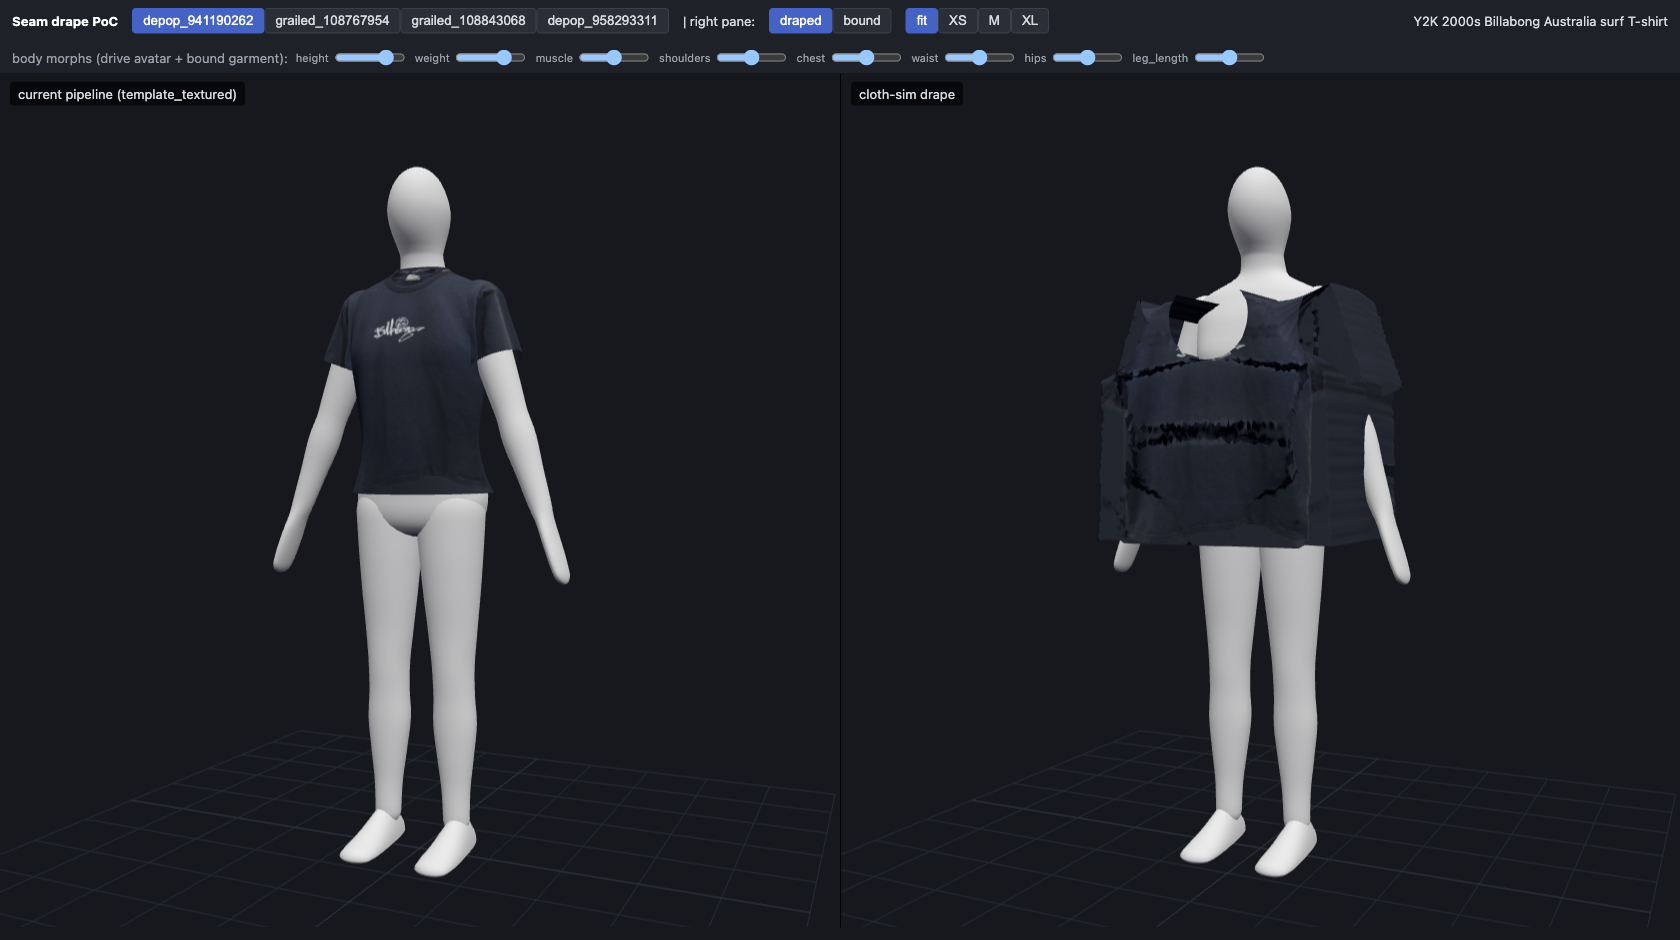
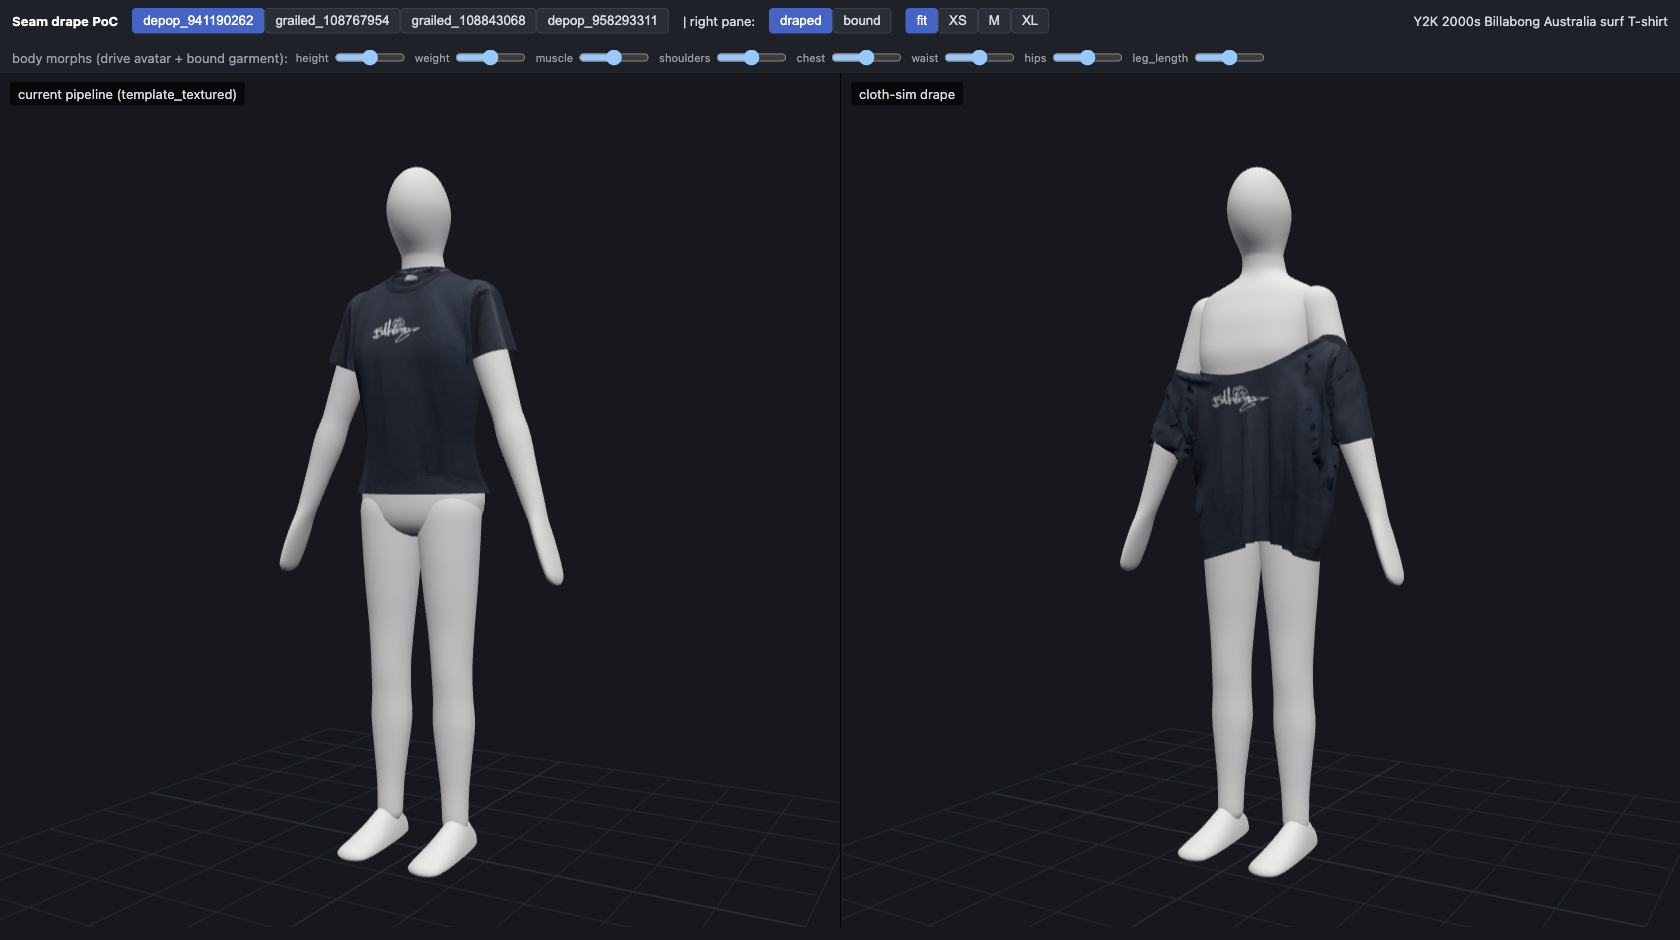
docs(drape): gpu results

diff --git a/gen3d/drape/RESULTS.md b/gen3d/drape/RESULTS.md
@@ -23,10 +23,10 @@ NON-COMMERCIAL ONLY** — fine for this PoC, a hard blocker for shipping unless 
 | Mannequin -> GarmentCode body (obj + 26-key yaml + segmentation) | this mac | done, masc/fem/183cm + size bodies |
 | Pattern generation (pygarment) | this mac | done, 4 items + XS/M/XL hoodie |
 | Box mesh (pre-sim garment mesh, panel UVs + labels) | this mac | done, 7 meshes |
-| Warp XPBD drape | **GPU box (pending human run)** | scripts ready; local CPU sim segfaults (below) |
-| Panel texturing + GLB export | this mac | done, on box meshes; same code reruns on sim objs |
-| Morph binding (instant approximation) | this mac | done, on box meshes; redrape comparison pending GPU |
-| Viewer + screenshots | this mac | done |
+| Warp XPBD drape | RunPod RTX 3090 | done: 4 items, XS/M/XL, tee→hoodie layer, 7 control sims |
+| Panel texturing + GLB export | RunPod + this mac | done, on the GPU sim objs |
+| Morph binding (instant approximation) | RunPod | done on sim objs; redrape comparison done (below) |
+| Viewer + screenshots | this mac | re-shot on the draped GLBs (16 + 3 control shots) |
 
 Local CPU sim attempt: built the warp fork CPU-only on macOS arm64 (llvm.org clang+llvm 15.0.7 in
 place of NVIDIA's packman bundle). `wp.init()` + kernels work, but the first `warp.sim.collide`
@@ -41,50 +41,96 @@ kernel launch segfaults — timeboxed and dropped. The sim is GPU-box work, as p
 | grailed:108843068 — "REHACER baggy rusty mudwash" jeans | jeans | W32 | oversized | ok | 6 |
 | depop:958293311 — boxy tee | tee | L | oversized | ok | 8 |
 
-## Numbers (this mac, M-series CPU; sim numbers TBD on GPU)
+## Numbers
 
 - Claude params: ~4 s/item, ~5.2k in / ~200 out tokens, **~$0.017–0.02 per item** (prompt-cache aware).
 - Pattern generation: 0.15–2.1 s/item.
-- Box mesh generation (res 1.0): 1.6–3.2 s/item on CPU.
-- Upstream sim reference: ~30 s/garment on an RTX 3090 (GarmentCodeData paper); VRAM unpublished —
-  `drape.drape` samples nvidia-smi peak per run into `runs/out/timings.json`.
+- Box mesh generation (res 1.0): 1.6–3.2 s/item on the mac CPU, 4–9 s on the pod.
 - Claude cost drivers: image + schema slice; retry rate 0/4.
 
-### TBD after `drape/scripts/run_poc.sh` on the GPU box
-- per-item sim seconds + peak VRAM + GPU model (auto-recorded to runs/out/timings.json)
-- size experiment XS/M/XL drape deltas on the 183 cm wearer
-- layered tee->hoodie drape
-- binding-vs-redrape error at height 0.8 (bind.py --compare)
+### GPU run (RunPod RTX 3090, 2026-10-20)
+
+Box: Secure Cloud RTX 3090 24 GB, EU-CZ-1, $0.50/h, CUDA 13.2 host driver, image
+`runpod/pytorch:2.4.0-py3.11-cuda12.4.1-devel-ubuntu22.04` (nvcc 12.4). setup_gpu.sh ~10 min (warp
+CUDA compile 107 s + link 11 s, warp-clang from packman LLVM 15.0.7); upstream smoke sim 117 s, ~75 s
+of it first-run kernel JIT (cached after). run_poc.sh 526 s. Pod up 54 min incl. controls (~$0.45).
+Numbers from runs/out/timings.json and the control dirs runs/out_*.
+
+Main drapes on wearer_masc (175 cm), res 1.0, upstream default sim props:
+
+| item | preset | sim s | frames | body / self isect | VRAM MB | upstream fails | reads as |
+|---|---|---|---|---|---|---|---|
+| sweats | default | 36.0 | 2399 (cap) | 0 / 8063 | 644 | static_eq, self | slid off the body (y −22…14 cm) |
+| tee | soft | 35.2 | 2399 | 151 / 493 | 564 | static_eq, body, self | slid off the left shoulder |
+| hoodie | soft_flexy | 53.9 | 2399 | 378 / 1230 | 666 | static_eq, body, self | the garment: hood, folds, cuffs |
+| jeans | stiff | 37.6 | 2399 | 0 / 9079 | 660 | static_eq, self | slid off the body (y −28…16 cm) |
+
+- 35–56 s/garment (paper: ~30 s on a 3090); peak VRAM 0.56–0.68 GB (nvidia-smi, incl. context), so
+  24 GB is idle capacity and several sims could share one card.
+- No main sim met upstream's static-equilibrium test inside the 2400-frame cap and all trip its
+  self-intersection flag. The flags over-report: the hoodie trips all three and reads right.
+- The GPU sim is not deterministic: the same tee spec, three runs: body isect 151 / 97 / 92, one
+  settled at frame 2063.
+- Bottoms: upstream holds the waist (`lower_interface`) attachment for `attachment_frames: 400`, then
+  releases it, and both pants slide off our mannequin. Not only sizing (W32 size body waist 81.3 /
+  hips 106.8 vs wearer 75.2 / 92.9 cm): the jeans also fall on wearer_heavy (waist 82.2 cm).
+  Control with every attachment held for all frames (runs/out_ctrl_hold, shots `*_hold_tq.png`):
+  sweats 26.2 s, y 11…105 cm; jeans 26.4 s, y 5…105 cm; both 0 body / 0 self isect, only the
+  static_eq flag. They read as baggy cuffed track pants and wide-leg jeans, at least as well as the
+  templates. The tee does not recover (36.8 s, 154 / 587, still off the shoulder): different cause, open.
+- Layer test (tee draped, merged into the collision body, hoodie draped over it): the base tee settled
+  (33.1 s, frame 2063); the hoodie took 88.1 s, 2731 body / 12957 self isect, and ended at y 0.81–1.26 m,
+  i.e. it slid down over the tee with the hood off the head. Layering via a merged body does not work as is.
+- Fixed in our scripts during the run: run_poc.sh lacked ~/.local/bin on PATH (uv not found in a
+  non-login shell) and passed an unknown `--bodies` to drape.bind; drape.py's layer test read
+  `<name>_layered_specification.json` (FileNotFoundError).
 
 ## Size experiment (D6)
 
-Patterns + box meshes for the hoodie at XS / M / XL on the same 183 cm masc wearer exist locally
-(`runs/out/grailed_108767954/sim_size_*`). Size-body girths: M bust 96 / waist 82 / hips 101 vs
-XL 112 / 98 / 121 (cm). Pattern-level: XS lays out clean; M/L/XL trigger GarmentCode's 2D
-self-intersection warning (hood panels outgrow the flat layout) — flagged, sim-level effect TBD.
-Expected on GPU: XS rides up and pulls; XL bunches. RECORD ACTUAL RESULT HERE AFTER GPU RUN.
+Hoodie patterns at XS / M / XL from size bodies of the 175 cm masc wearer, all draped on
+wearer_masc (175 cm). Size-body girths: XS bust 84 / waist 70 / hips 86, M 96 / 82 / 101, XL
+112 / 98 / 121 (cm). The cached XS body had been derived from the 183 cm wearer while M/XL came from
+the 175 cm one, so it was rebuilt before the run; the sizes now differ only in girth.
+
+| size | sim s | body / self isect | VRAM MB | hem y |
+|---|---|---|---|---|
+| XS | 49.0 | 616 / 942 | 628 | 0.862 m |
+| M | 54.1 | 377 / 773 | 650 | 0.837 m |
+| L (listed size, main drape) | 53.9 | 378 / 1230 | 666 | 0.830 m |
+| XL | 56.4 | 251 / 1255 | 684 | 0.813 m |
+
+Reads as intended (shots `grailed_108767954_size_*.png`, untextured sim meshes): XS is fitted, with
+tight sleeves and the hem at the hip; XL is oversized, with fuller, longer sleeves, more folds and a
+lower hem. Body contact falls monotonically with size and self-contact (bunching) peaks at XL. The 2D
+hood self-intersection warning on M/L/XL did not break any sim.
 
 ## Instant approximation (D8 binding)
 
 Nearest-triangle barycentric + the offset stored as a 3-vector in the triangle's rotating local
-frame (the plain normal-only scalar leaves 0.8-1.2 cm mean error on these meshes; the frame
-version reconstructs exactly). Garment morph targets = binding applied to each of the mannequin's
+frame (the plain normal-only scalar leaves 0.8-1.2 cm mean error on the box meshes, 0.08-0.33 cm
+mean / up to 3.0 cm max on the sim meshes; the frame version reconstructs exactly). Garment morph targets = binding applied to each of the mannequin's
 8 morph deltas, exported with the exact avatar target names so web useBodyMorphs drives them
 unchanged. binding.npz caches the ~12 s proximity pass; re-export is instant.
 
+On the GPU sim objs (default drapes, so both bottoms are bound where they fell, by the feet):
+
 | item | verts | recon @drape sliders | morph-blend identity | push h=0.8 mean/max | penetr. push / bind |
 |---|---|---|---|---|---|
-| sweats | 14710 | 0.000 cm | 0.29 / 1.26 cm | 3.29 / 5.98 cm | 64 / 64 (0.44%) |
-| tee    |  9865 | 0.000 cm | 0.40 / 1.55 cm | 5.98 / 7.54 cm | 160 / 160 (1.62%) |
-| hoodie | 16331 | 0.000 cm | 0.27 / 1.53 cm | 6.36 / 9.45 cm | 233 / 233 (1.43%) |
-| jeans  | 15524 | 0.000 cm | 0.26 / 1.09 cm | 2.84 / 5.86 cm | 80 / 80 (0.52%) |
+| sweats | 14719 | 0.000 cm | 0.004 / 0.036 cm | 0.45 / 0.83 cm | 0 / 0 (garment on the floor) |
+| tee    |  9848 | 0.000 cm | 0.31 / 0.76 cm | 5.64 / 7.13 cm | 104 / 104 (1.06%) |
+| hoodie | 16309 | 0.000 cm | 0.20 / 0.69 cm | 6.61 / 9.45 cm | 110 / 110 (0.67%) |
+| jeans  | 15515 | 0.000 cm | 0.004 / 0.081 cm | 0.43 / 0.94 cm | 0 / 0 (garment on the floor) |
 
-The honest approximation error is the morph-blend identity residual (0.26-0.40 cm mean, <=1.55 cm
-max): the body is slightly non-linear in its sliders, the binding itself is exact. Penetration
-counts are IDENTICAL at bind and after pushing height to 0.8 on every item - binding introduces
-zero new body penetration; the 0.4-1.6% that exist come from the un-draped boxmesh fixtures.
-All 4 bound GLBs verify: 8 targets, targetNames == slider names, textures injected, load in
-trimesh. bind.py --compare is wired for the GPU re-drape comparison (self-compare = 0.000 cm).
+The binding itself stays exact and adds zero penetrations (counts identical at bind and after the
+push); the morph-blend identity residual is 0.20–0.31 cm mean on the tops. All 4 bound GLBs verify:
+8 targets, targetNames == slider names, UVs + textures, load in trimesh.
+
+**Binding vs redrape** (hoodie, height slider 0.8 = 184.45 cm): the re-drape on that body took 29.4 s
+and settled at frame 693. Binding-pushed vs re-drape: **mean 6.12 cm, max 13.16 cm**. Sim noise floor
+(re-drape on the same body vs the original drape): 1.35 / 5.16 cm. The binding error is ~4.5x the
+noise: binding stretches the garment with the body, as if it were re-cut for each wearer, while the
+same physical garment rides up on a taller one. Fine for small girth tweaks; height buckets need
+their own drape.
 
 ## Texturing (D7)
 
@@ -110,6 +156,10 @@ GLBs verify in trimesh: UVs + basecolor + normal + metallicRoughness, doubleSide
 4. The warp fork clone silently loses its `warp/` tree without git-lfs installed FIRST.
 5. `run_sim` calls pyrender unconditionally — drape.py no-ops `render_images` (we screenshot via
    the viewer instead); setup_gpu.sh still installs GL libs for safety.
+6. The warp fork tracks `tools/packman/packman` as mode 100644 and `build_llvm.py` execs it, so the
+   Linux build dies with "Permission denied" after the CUDA compile — setup_gpu.sh chmods it first.
+7. Upstream's `test_garment_sim.py` crashes after the sim in its headless pyrender pass (PyOpenGL
+   ctypes ArgumentError in glGenTextures); the sim itself succeeds and setup_gpu.sh tolerates it.
 
 ## Viewer
 
@@ -120,22 +170,26 @@ morph sliders drive avatar + bound garment by name). Regenerate the manifest aft
 `cd gen3d/drape && uv run --no-sync python viewer/build_manifest.py`.
 
 Screenshots (committed): runs/out/shots/ — <safe>_{front,tq,back}.png per item (full-page = left
-template vs right drape), plus grailed_108767954_size_{XS,M,XL}.png and depop_958293311_bound_h08.png.
-Browser console clean (only a favicon 404). NOTE: right-pane geometry is currently the PRE-SIM box
-mesh (boxy, hood spiking up) — re-run the same shots after the GPU drape to judge visual quality;
-the left-vs-right texture/colour comparison is already meaningful.
+template vs right drape), plus grailed_108767954_size_{XS,M,XL}.png and depop_958293311_bound_h08.png,
+all re-shot on the GPU-draped GLBs (camera azimuth 0 / 30 / 180°). `<safe>_hold_tq.png` (sweats,
+jeans, tee) are the held-attachment controls, shot by pointing the page's in-memory manifest `draped`
+URL at runs/out_ctrl_hold. The size GLBs are untextured trimesh exports of the sim_size objs.
+Browser console clean (only a favicon 404).
 
 ## Cost projection — 200 items × 5 body buckets
 
 - Claude params: 200 × $0.02 = **$4** (one-time per item, body-independent).
 - Patterns: CPU, free-ish (≤2 s each).
-- Drapes: 200 items × 5 bodies = 1000 sims × ~30 s (3090-class) ≈ 8.3 GPU-h ≈ **$3–7** on RunPod
-  (RTX 3090/4090 at $0.3–0.8/h), plus per-size variants if offered (+3× for XS/M/XL ladder).
-- New body AFTER baking: $0 — the binding reshapes instantly in the browser; re-drape only for
-  quality-critical fits.
+- Drapes: 200 items × 5 bodies = 1000 sims × ~45 s measured (RTX 3090) ≈ 12.5 GPU-h ≈ **~$6** at
+  the $0.50/h Secure 3090 rate paid here, plus per-size variants if offered (+3× for XS/M/XL ladder).
+  Each sim peaks under 0.7 GB VRAM, so packing several per GPU should cut that (not measured).
+- New body AFTER baking: $0 — the binding reshapes instantly in the browser, but it is ~6 cm off a
+  real re-drape for a +5% height change (above): fine for girth, not a substitute for height buckets.
 - Storage: ~2–5 MB/GLB → 1000 × ~3 MB ≈ 3 GB.
 
-## What the human must run on the GPU box
+## Re-running the GPU stage
+
+Done once on 2026-10-20 (above); gen3d/drape/GPU_RUN.md has the exact pod + rsync commands.
 
 1. rsync (or clone + checkout anjelo/drape-poc) the repo to a RunPod Ubuntu 22.04 + CUDA 12 box,
    plus `rsync -a gen3d/drape/runs/inputs/ box:.../gen3d/drape/runs/inputs/` and runs/bodies/.
@@ -143,31 +197,47 @@ the left-vs-right texture/colour comparison is already meaningful.
    builds the warp fork with CUDA_PATH, runs upstream's own smoke sim once, prints seconds).
 3. `bash drape/scripts/run_poc.sh` — drapes all 4 items + XS/M/XL size experiment + tee→hoodie
    layer test, re-runs texture/export/bind on the real sim objs, writes runs/out/timings.json.
-4. rsync runs/out back; `uv run --no-sync python viewer/build_manifest.py`; re-take shots;
-   fill the TBD sections above + this verdict's quality judgement.
-5. Binding-vs-redrape error: `uv run --no-sync python -m drape.bind --only grailed_108767954
-   --push height=0.8 --compare <path to the re-draped-at-0.8 _sim.obj>`.
+4. rsync runs/out back; export the hoodie size GLBs (`<safe>_size_{XS,M,XL}.glb`: plain trimesh
+   exports of sim_size_*/*_sim.obj, cm -> m); `uv run --no-sync python viewer/build_manifest.py`;
+   re-take shots.
+5. Binding-vs-redrape: `uv run --no-sync python -m drape.body --base masc --name wearer_masc_h08
+   --sliders height=0.8`, drape the hoodie on it (`-m drape.drape --only grailed_108767954 --wearer
+   wearer_masc_h08 --size L --out runs/out_redrape08`), then `-m drape.bind --only
+   grailed_108767954 --push height=0.8 --compare <that _sim.obj>`.
 
 ## Verdict
 
-**PROCEED — pending the one thing a Mac cannot answer: visual drape quality on the GPU run.**
-Every other question came back positive and cheap:
-- Mechanics: listing photo → valid GarmentCode params (4/4, $0.02, 4 s) → pattern on a size body
-  (≤2 s) → our mannequin is a drop-in GarmentCode body (upstream BodyParameters loads it, waist
-  level exact) → panel-true texturing → GLBs the existing web morph system drives unchanged.
-- The "instant approximation" works: exact reconstruction, 0.26–0.40 cm morph residual, zero
-  added penetrations — so 5 body buckets do NOT need 5 sims per item.
-- Cost at 200 items × 5 bodies ≈ **$4 Claude + $3–7 GPU + ~3 GB storage** — negligible.
-Abandon only if the GPU run shows draped results reading worse than the current templates, or a
-high sim fail-rate on real thrift params.
+**PROCEED, with two fixes before it is product-grade.** The GPU run answered the open question:
+when the garment stays on the body, the drape reads like the real garment, better than the
+templates, and the size ladder reads right.
+- Works: the hoodie (hood, folds, ribbed cuffs, hem at the hip) and both bottoms once the waist
+  attachment is held for the whole sim (baggy cuffed track pants, wide-leg jeans); XS → XL reads
+  fitted → oversized; 35–56 s and < 0.7 GB VRAM per sim.
+- Mechanics from the Mac stage hold: listing photo → valid GarmentCode params (4/4, $0.02, 4 s) →
+  pattern on a size body (≤2 s) → our mannequin as a GarmentCode body → panel-true texturing →
+  GLBs the existing web morph system drives unchanged.
+- Cost at 200 items × 5 bodies ≈ **$4 Claude + ~$6 GPU + ~3 GB storage** — negligible.
+- Against the abandon criteria: with upstream defaults 3/4 items read worse than the templates
+  (both bottoms slide off, the tee slides off a shoulder); held attachments bring that to 1/4 (the
+  tee). Every sim trips upstream's own fail flags, but they over-report (the hoodie trips all three).
+
+Must fix before scaling:
+1. Hold the waist attachment for the whole sim on bottoms. It is one sim-props value
+   (`attachment_frames`); drape.py does not set it yet, the control used 100000.
+2. Find why the tee slides off a shoulder (it still does with held collar attachments); the
+   neckline vs our mannequin's narrower shoulders and 20° arm pose are the first suspects.
+
+Two hopes that did not hold: layering via a merged collision body collapses the hoodie, and the
+binding is ~6 cm off a real re-drape for a +5% height change, so height buckets each need a sim
+(still cheap at ~45 s).
 
 Three biggest risks:
 1. **License**: the required warp fork is NVIDIA Source Code License, NON-COMMERCIAL only. Fine
    for the PoC; a production blocker until relicensed/replaced (upstream warp is now permissive —
    porting GarmentCodeData's sim patches is real work).
-2. **Hoodies at M+**: GarmentCode's Hood2Panels self-intersects in the 2D layout even with stock
-   defaults (XS lays out clean) — may degrade or fail sims on exactly the category where drape
-   matters most; needs hood-param tuning or an upstream fix.
+2. **Tops sliding off the shoulders**: 1 of the 2 tops (the tee) slides off with default and with
+   held attachments, cause unknown. (The earlier hood risk did not materialize: the M/L/XL hood 2D
+   self-intersection warning broke no sim.)
 3. **Photo→param ambiguity**: one front photo under-determines rise/length/flare; Claude guesses
    plausibly but a fit-critical product needs priors per category (or measurements from the
    listing) — plus our mannequin's 20° arm pose (vs their 45° A-pose) risks sleeve-torso

diff --git a/gen3d/drape/GPU_RUN.md b/gen3d/drape/GPU_RUN.md
@@ -20,8 +20,9 @@ repo worktree at /Users/anjelo/Github/Seam-drape-poc on branch anjelo/drape-poc.
 
 ## 1. Create the pod (runpod MCP, pod-deploy journey)
 
-- Catalog read first; pick the cheapest available of 1x RTX 4090 / RTX 3090 (24 GB is plenty;
-  paper baseline was a 3090 at ~30 s/garment). Quote the price from the read.
+- Catalog read first; pick the cheapest available of 1x RTX 4090 / RTX 3090 on Secure Cloud (24 GB
+  is plenty; paper baseline was a 3090 at ~30 s/garment). Quote the price from the read. v2
+  create-pod can't ask for a public IP on Community Cloud, and the rsync below needs direct SSH.
 - create-pod: name `seam-drape-poc`; gpu.minCudaVersion "12.8"; image
   `runpod/pytorch:2.4.0-py3.11-cuda12.4.1-devel-ubuntu22.04` (any runpod/pytorch *-devel-*
   cuda12.x ubuntu22.04 tag works — it must have nvcc); containerDiskInGb 40; volumeInGb 50 at
@@ -33,10 +34,14 @@ repo worktree at /Users/anjelo/Github/Seam-drape-poc on branch anjelo/drape-poc.
 
 ```sh
 cd /Users/anjelo/Github/Seam-drape-poc
-rsync -az -e "ssh -p PORT -i ~/.ssh/id_ed25519" --exclude .venv --exclude vendor \
+ssh root@IP -p PORT -i ~/.ssh/id_ed25519 'apt-get update -qq && apt-get install -y -qq rsync'
+rsync -az --no-owner --no-group -e "ssh -p PORT -i ~/.ssh/id_ed25519" --exclude .venv --exclude vendor \
   --exclude runs/out --exclude .git gen3d shared assets pyproject.toml .python-version \
   root@IP:/workspace/seam/
 ```
+
+(The runpod/pytorch image ships without rsync. `--no-owner --no-group`: /workspace can be a
+MooseFS FUSE mount that refuses chown, which otherwise errors on every file and exits 23.)
 
 (runs/inputs and runs/bodies ride along inside gen3d/drape/runs/. The repo layout matters:
 drape/_repo.py resolves gen3d/../shared and ../assets relative to itself.)
@@ -55,7 +60,7 @@ loudly naming the failed step. If a sim fails, `pod-doctor` journey + runs/out/t
 fails field. For the binding-vs-redrape number:
 
 ```sh
-uv run --no-sync python -m drape.drape --only grailed_108767954 --wearer wearer_masc_183 --size L --out runs/out_redrape08   # after generating a height-0.8 body: uv run --no-sync python -m drape.body --base masc --name wearer_masc_h08 --sliders height=0.8
+uv run --no-sync python -m drape.drape --only grailed_108767954 --wearer wearer_masc_h08 --size L --out runs/out_redrape08   # after generating a height-0.8 body: uv run --no-sync python -m drape.body --base masc --name wearer_masc_h08 --sliders height=0.8
 uv run --no-sync python -m drape.bind --only grailed_108767954 --push height=0.8 --compare <path to that _sim.obj>
 ```
 
